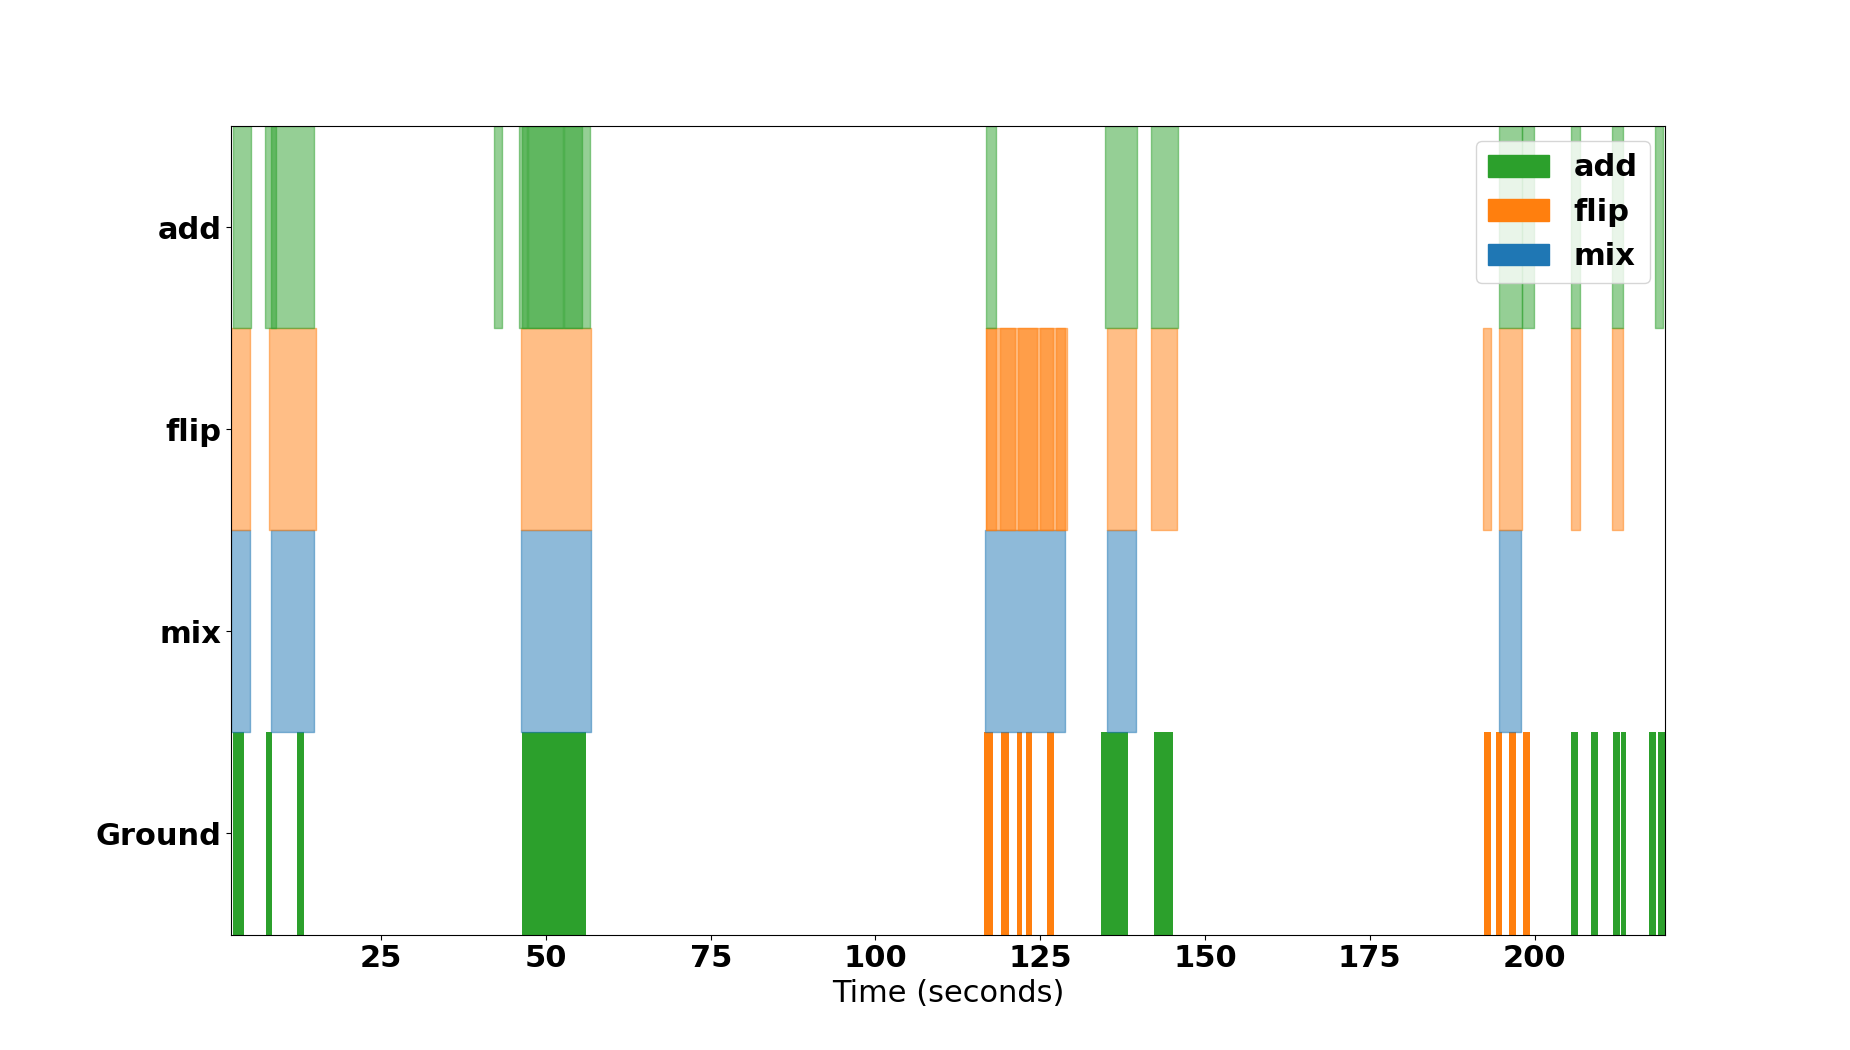
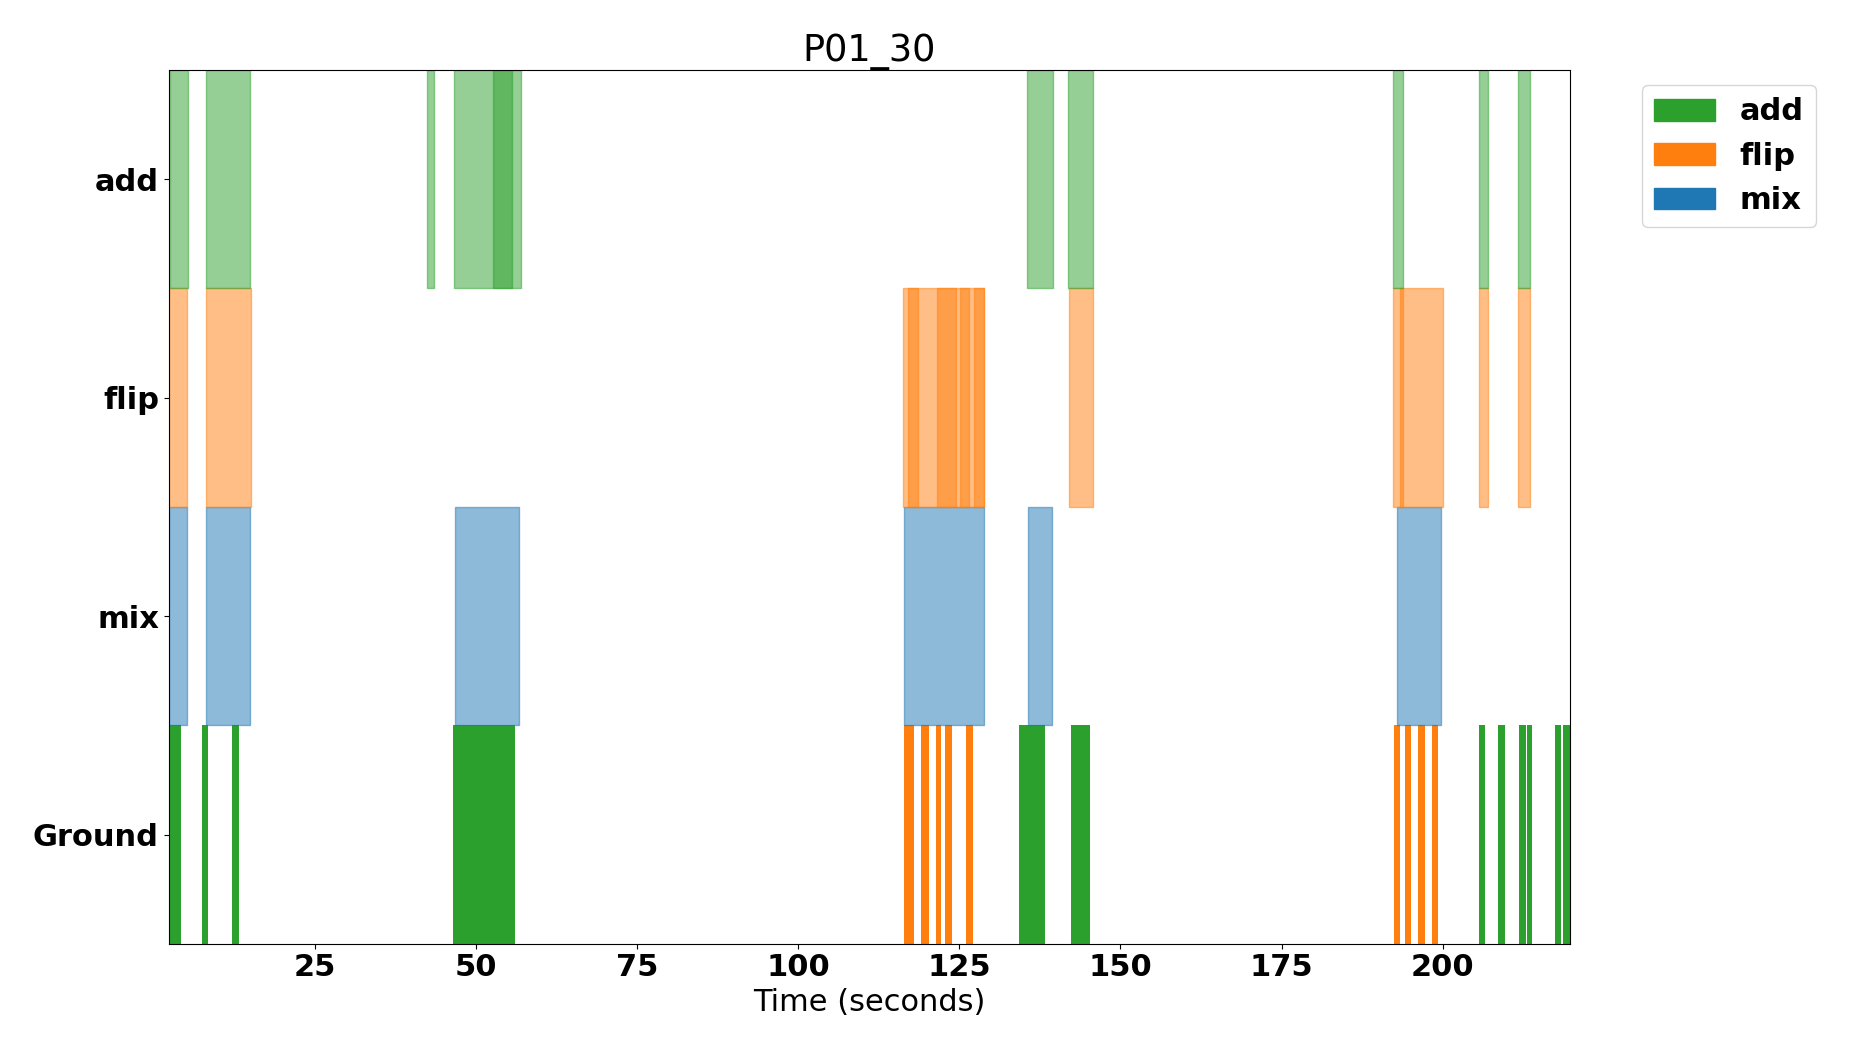
Legend out of the box, bunch of plots

Changed region(s): [[0.2157, 0.061, 0.9859, 0.9752], [0.0, 0.061, 0.2157, 0.9448], [0.4314, 0.0305, 0.5238, 0.061]]

diff --git a/show_predictions.py b/show_predictions.py
@@ -205,11 +205,12 @@ def plot_intervals(ground_truth_videos, prediction_videos, video_id, label_names
     # Set legend, if the hide_legend flag is not set
     if "hide_legend" not in args:
         legend_handles = get_legend(unique_labels, color_by_label, label_names)
-        plt.legend(handles=legend_handles)
+        plt.legend(handles=legend_handles, bbox_to_anchor=(1.04, 1), loc="upper left")
 
     # Set title
     plt.title(video_id)
     plt.tight_layout()
+    # plt.tight_layout(rect=[0, 0, 0.75, 1])
     plt.show()
 
     # Plot using streamlit if desired
